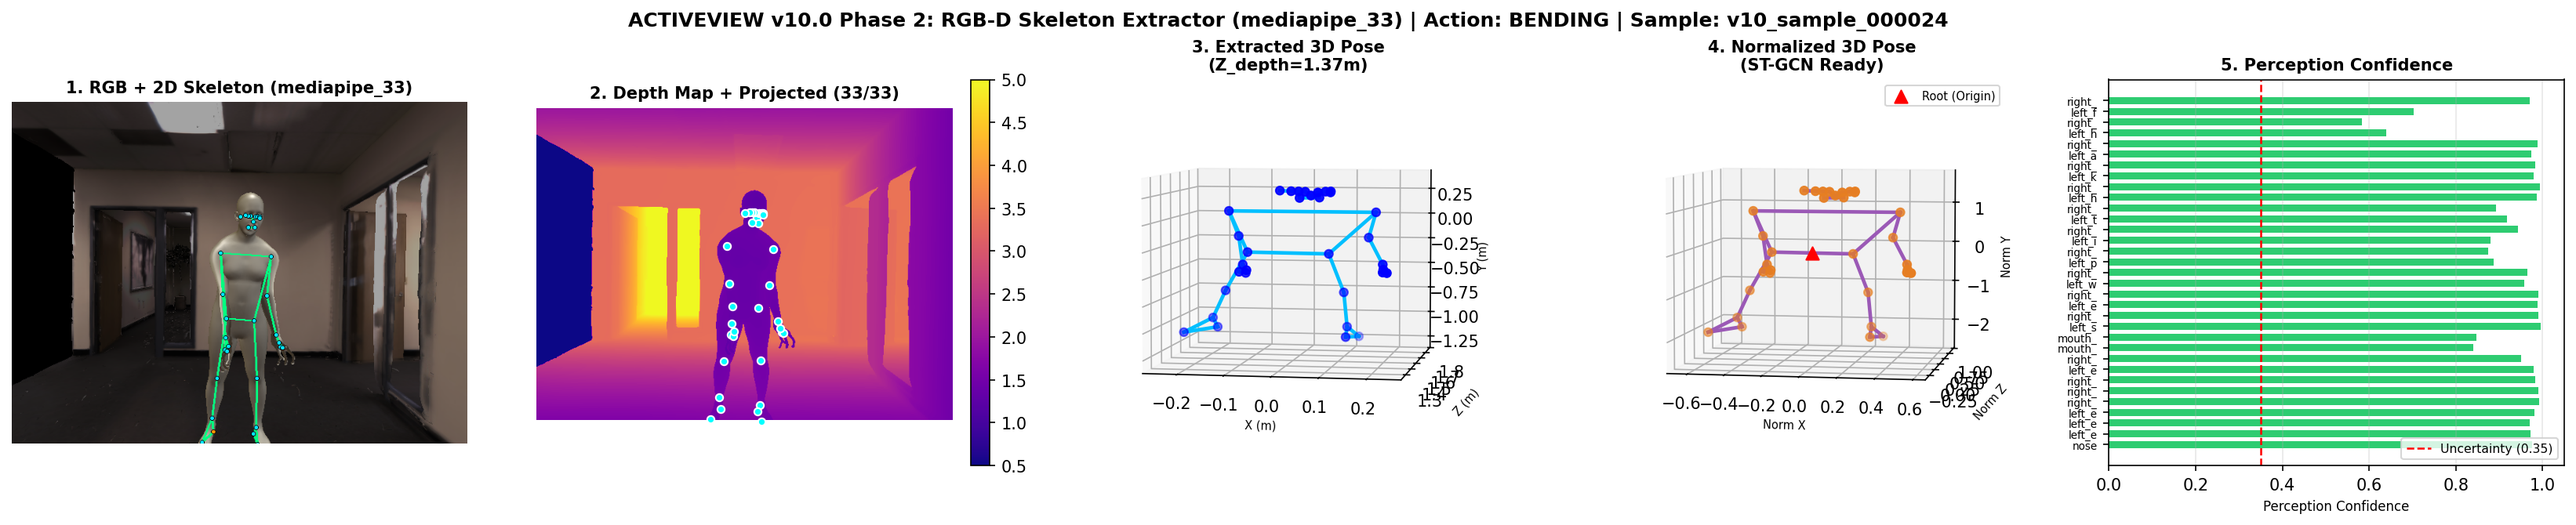
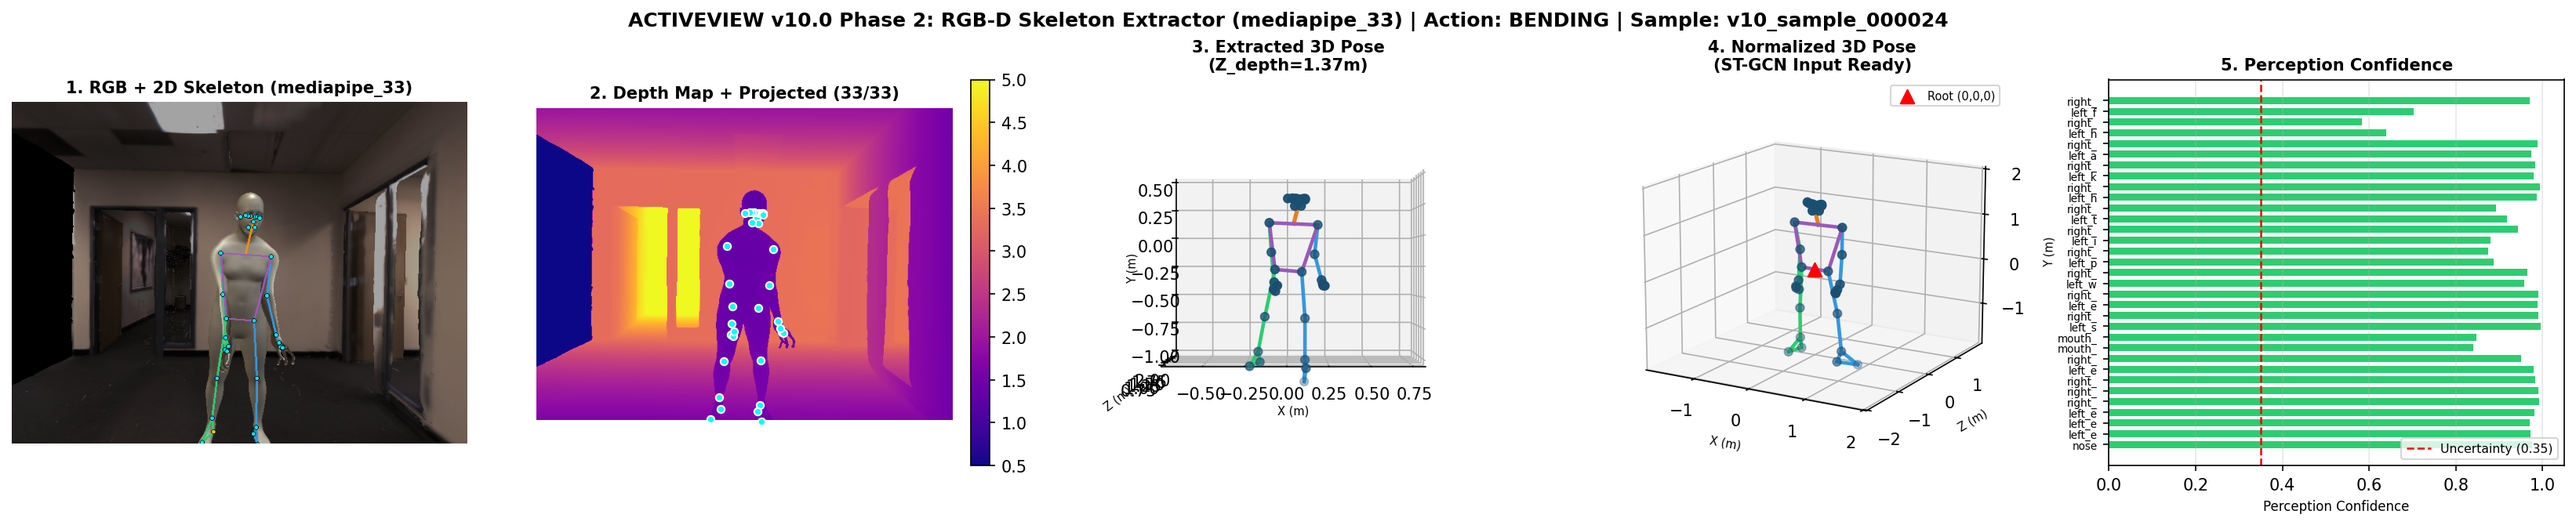
style(visualization): optimize 3D skeleton aspect ratio and limb color-coding

diff --git a/ea_avs_mvp_v10/visualization/skeleton_visualizer.py b/ea_avs_mvp_v10/visualization/skeleton_visualizer.py
@@ -4,9 +4,10 @@ RGB-D 3D 骨架与多模态感知可视化渲染器 —— skeleton_visualizer.p
 
 职责：
     1. 严格从 `configs/skeleton_definition.json` 读取官方骨骼连线与关节定义；
-    2. 禁止硬编码错误骨骼连线；
-    3. 提供标准正投影 (Front View) 与 3D 空间透视投影 (Perspective View)；
-    4. 绘制 RGB + 2D 投影、Camera 坐标系 3D 骨架与 Normalized 3D 骨架。
+    2. 采用真实物理长宽比 (True Metric Aspect Ratio)，消除 3D Matplotlib 坐标轴被压缩挤压变形；
+    3. 肢体区分颜色渲染 (左肢: 蓝色, 右肢: 绿色, 躯干: 紫色, 头部/颈部: 橙色)；
+    4. 自动连接颈部骨骼 (双肩中心至头部鼻尖)，确保头部与躯干自然衔接；
+    5. 提供标准正投影 (Front View) 与 3D 空间透视投影 (Perspective View)。
 """
 
 import logging
@@ -54,29 +55,112 @@ class SkeletonVisualizer:
         confs = skeleton.perception_confidence
         pairs = self.get_skeleton_pairs()
 
-        # 绘制官方骨骼连线
+        # 1. 颈部连接线 (双肩中心至鼻尖)
+        if len(confs) > 12 and confs[0] >= conf_thresh and confs[11] >= conf_thresh and confs[12] >= conf_thresh:
+            neck_2d = ((kpts_2d[11, 0] + kpts_2d[12, 0]) / 2.0, (kpts_2d[11, 1] + kpts_2d[12, 1]) / 2.0)
+            draw.line([neck_2d, (kpts_2d[0, 0], kpts_2d[0, 1])], fill=(255, 140, 0), width=3)
+
+        # 2. 绘制官方骨骼连线 (肢体区分色彩)
         for j1, j2 in pairs:
             if j1 < len(confs) and j2 < len(confs):
                 if confs[j1] >= conf_thresh and confs[j2] >= conf_thresh:
                     p1 = (float(kpts_2d[j1, 0]), float(kpts_2d[j1, 1]))
                     p2 = (float(kpts_2d[j2, 0]), float(kpts_2d[j2, 1]))
-                    avg_c = (confs[j1] + confs[j2]) / 2.0
-                    line_color = (0, 255, 128) if avg_c > 0.6 else (255, 200, 0)
+
+                    part1, part2 = self.skel_def.joints[j1].part, self.skel_def.joints[j2].part
+                    if "left" in part1 or "left" in part2:
+                        line_color = (52, 152, 219)   # 左肢蓝色
+                    elif "right" in part1 or "right" in part2:
+                        line_color = (46, 204, 113)  # 右肢绿色
+                    elif "head" in part1 or "head" in part2:
+                        line_color = (230, 126, 34)  # 头部橙色
+                    else:
+                        line_color = (155, 89, 182)  # 躯干紫色
+
                     draw.line([p1, p2], fill=line_color, width=3)
 
-        # 绘制关键点圆圈
+        # 3. 绘制关键点圆圈
         r = 3
         for i in range(len(confs)):
             u, v = float(kpts_2d[i, 0]), float(kpts_2d[i, 1])
             c = float(confs[i])
             if c >= conf_thresh:
-                node_color = (0, 230, 255) if c > 0.6 else (255, 150, 0)
+                node_color = (0, 230, 255) if c > 0.6 else (255, 200, 0)
             else:
                 node_color = (255, 50, 50)  # 红色表示低置信 / 不确定
 
             draw.ellipse([u - r, v - r, u + r, v + r], fill=node_color, outline=(0, 0, 0))
 
         return np.array(pil_img)
+
+    def draw_3d_limbs(
+        self,
+        ax: Axes3D,
+        joints_3d: np.ndarray,
+        confs: np.ndarray,
+        title: str,
+        is_normalized: bool = False,
+        view_mode: str = "front",
+    ):
+        """以真实物理尺度与肢体着色绘制 3D 骨架。"""
+        valid_idx = np.where(confs >= 0.35)[0]
+        if len(valid_idx) == 0:
+            valid_idx = np.arange(len(confs))
+
+        # 设定等比例长宽比，消除 Matplotlib 3D 盒体挤压变形
+        x_span = np.ptp(joints_3d[valid_idx, 0])
+        y_span = np.ptp(joints_3d[valid_idx, 1])
+        z_span = np.ptp(joints_3d[valid_idx, 2])
+        max_span = max(x_span, y_span, z_span, 0.6 if is_normalized else 0.8)
+
+        mid_x = float(np.mean(joints_3d[valid_idx, 0]))
+        mid_y = float(np.mean(joints_3d[valid_idx, 1]))
+        mid_z = float(np.mean(joints_3d[valid_idx, 2]))
+
+        ax.set_xlim(mid_x - max_span / 2.0, mid_x + max_span / 2.0)
+        ax.set_ylim(mid_z - max_span / 2.0, mid_z + max_span / 2.0)
+        ax.set_zlim(mid_y - max_span / 2.0, mid_y + max_span / 2.0)
+
+        # 颈部骨骼 (双肩中心至鼻尖)
+        if len(joints_3d) > 12 and confs[0] >= 0.35 and confs[11] >= 0.35 and confs[12] >= 0.35:
+            neck = (joints_3d[11] + joints_3d[12]) / 2.0
+            ax.plot([neck[0], joints_3d[0, 0]], [neck[2], joints_3d[0, 2]], [neck[1], joints_3d[0, 1]], color="#E67E22", linewidth=2.5)
+
+        # 各肢体骨骼着色连线
+        for j1, j2 in self.skel_def.edges:
+            if j1 < len(confs) and j2 < len(confs):
+                if confs[j1] >= 0.35 and confs[j2] >= 0.35:
+                    p1, p2 = self.skel_def.joints[j1].part, self.skel_def.joints[j2].part
+                    if "left" in p1 or "left" in p2:
+                        c = "#3498DB"  # 蓝色 (左肢)
+                    elif "right" in p1 or "right" in p2:
+                        c = "#2ECC71"  # 绿色 (右肢)
+                    elif "head" in p1 or "head" in p2:
+                        c = "#E67E22"  # 橙色 (头部)
+                    else:
+                        c = "#9B59B6"  # 紫色 (躯干)
+
+                    ax.plot(
+                        [joints_3d[j1, 0], joints_3d[j2, 0]],
+                        [joints_3d[j1, 2], joints_3d[j2, 2]],
+                        [joints_3d[j1, 1], joints_3d[j2, 1]],
+                        color=c, linewidth=2.2,
+                    )
+
+        ax.scatter(joints_3d[valid_idx, 0], joints_3d[valid_idx, 2], joints_3d[valid_idx, 1], color="#1B4F72", s=25)
+        if is_normalized:
+            ax.scatter(0, 0, 0, color="red", marker="^", s=70, label="Root (0,0,0)")
+            ax.legend(loc="upper right", fontsize=7)
+
+        ax.set_title(title, fontsize=10, fontweight="bold")
+        ax.set_xlabel("X (m)", fontsize=7)
+        ax.set_ylabel("Z (m)", fontsize=7)
+        ax.set_zlabel("Y (m)", fontsize=7)
+
+        if view_mode == "front":
+            ax.view_init(elev=0, azim=-90)
+        else:
+            ax.view_init(elev=15, azim=-60)
 
     def plot_sample_multimodal(
         self,
@@ -91,7 +175,6 @@ class SkeletonVisualizer:
         [1. RGB + 2D 骨架] [2. 深度图 + 投影] [3. 3D 骨架 (Front View)] [4. Normalized 3D 骨架] [5. 逐关节置信度]
         """
         fig = plt.figure(figsize=(22, 4.5))
-        pairs = self.get_skeleton_pairs()
         confs = skeleton.perception_confidence
 
         # Panel 1: RGB + 2D 骨架
@@ -111,47 +194,16 @@ class SkeletonVisualizer:
         ax2.axis("off")
         fig.colorbar(d_plot, ax=ax2, fraction=0.046, pad=0.04)
 
-        # Panel 3: 3D Camera Coordinate Skeleton (Front View, matching camera view)
+        # Panel 3: 3D Camera Coordinate Skeleton (Front View, True Aspect Ratio)
         ax3 = fig.add_subplot(1, 5, 3, projection="3d")
         j3d = skeleton.joints_3d_camera
-        for j1, j2 in pairs:
-            if j1 < len(confs) and j2 < len(confs):
-                if confs[j1] >= 0.35 and confs[j2] >= 0.35:
-                    ax3.plot(
-                        [j3d[j1, 0], j3d[j2, 0]],
-                        [j3d[j1, 2], j3d[j2, 2]],
-                        [j3d[j1, 1], j3d[j2, 1]],
-                        color="deepskyblue", linewidth=2.2,
-                    )
-        ax3.scatter(j3d[valid_idx, 0], j3d[valid_idx, 2], j3d[valid_idx, 1], color="blue", s=25)
         depth_mean = float(np.mean(j3d[valid_idx, 2])) if len(valid_idx) > 0 else 0.0
-        ax3.set_title(f"3. Extracted 3D Pose\n(Z_depth={depth_mean:.2f}m)", fontsize=10, fontweight="bold")
-        ax3.set_xlabel("X (m)", fontsize=7)
-        ax3.set_ylabel("Z (m)", fontsize=7)
-        ax3.set_zlabel("Y (m)", fontsize=7)
-        # 将视点设定为相机视角 (elev=0, azim=-90 代表正对 +Z 轴观看，完全匹配相机图像投影)
-        ax3.view_init(elev=5, azim=-80)
+        self.draw_3d_limbs(ax3, j3d, confs, f"3. Extracted 3D Pose\n(Z_depth={depth_mean:.2f}m)", is_normalized=False, view_mode="front")
 
-        # Panel 4: Normalized 3D Skeleton (Root centered at origin & scale normalized)
+        # Panel 4: Normalized 3D Skeleton (Root centered & scale normalized, Perspective Orbit View)
         ax4 = fig.add_subplot(1, 5, 4, projection="3d")
-        norm_j3d = skeleton.joints_3d_normalized if skeleton.joints_3d_normalized is not None else skeleton.joints_3d_camera
-        for j1, j2 in pairs:
-            if j1 < len(confs) and j2 < len(confs):
-                if confs[j1] >= 0.35 and confs[j2] >= 0.35:
-                    ax4.plot(
-                        [norm_j3d[j1, 0], norm_j3d[j2, 0]],
-                        [norm_j3d[j1, 2], norm_j3d[j2, 2]],
-                        [norm_j3d[j1, 1], norm_j3d[j2, 1]],
-                        color="#9B59B6", linewidth=2.2,
-                    )
-        ax4.scatter(norm_j3d[valid_idx, 0], norm_j3d[valid_idx, 2], norm_j3d[valid_idx, 1], color="#E67E22", s=25)
-        ax4.scatter(0, 0, 0, color="red", marker="^", s=60, label="Root (Origin)")
-        ax4.set_title("4. Normalized 3D Pose\n(ST-GCN Ready)", fontsize=10, fontweight="bold")
-        ax4.set_xlabel("Norm X", fontsize=7)
-        ax4.set_ylabel("Norm Z", fontsize=7)
-        ax4.set_zlabel("Norm Y", fontsize=7)
-        ax4.legend(loc="upper right", fontsize=7)
-        ax4.view_init(elev=5, azim=-80)
+        norm_j3d = skeleton.joints_3d_normalized if skeleton.joints_3d_normalized is not None else j3d
+        self.draw_3d_limbs(ax4, norm_j3d, confs, "4. Normalized 3D Pose\n(ST-GCN Input Ready)", is_normalized=True, view_mode="orbit")
 
         # Panel 5: 逐关节置信度直方图
         ax5 = fig.add_subplot(1, 5, 5)

diff --git a/tools/v10/check_sample.py b/tools/v10/check_sample.py
@@ -77,47 +77,17 @@ def plot_single_sample_inspection(
     ax1.set_title(f"1. RGB + 2D Skeleton ({skeleton.joint_format})\nAction: {sample_meta.get('action_label', '').upper()}", fontsize=11, fontweight="bold")
     ax1.axis("off")
 
-    # 2. Panel 2: Camera Coordinate 3D Skeleton (Front View)
+    # 2. Panel 2: Camera Coordinate 3D Skeleton (Front View, True Aspect Ratio)
     ax2 = fig.add_subplot(1, 4, 2, projection="3d")
     j_cam = skeleton.joints_3d_camera
-    for j1, j2 in pairs:
-        if j1 < len(confs) and j2 < len(confs):
-            if confs[j1] >= 0.35 and confs[j2] >= 0.35:
-                ax2.plot(
-                    [j_cam[j1, 0], j_cam[j2, 0]],
-                    [j_cam[j1, 2], j_cam[j2, 2]],
-                    [j_cam[j1, 1], j_cam[j2, 1]],
-                    color="deepskyblue", linewidth=2.2,
-                )
     valid_idx = np.where(confs >= 0.35)[0]
-    ax2.scatter(j_cam[valid_idx, 0], j_cam[valid_idx, 2], j_cam[valid_idx, 1], color="blue", s=30)
     depth_mean = np.mean(j_cam[valid_idx, 2]) if len(valid_idx) > 0 else 0.0
-    ax2.set_title(f"2. Camera 3D Skeleton (Front View)\n(Depth Z={depth_mean:.2f}m)", fontsize=11, fontweight="bold")
-    ax2.set_xlabel("X (m)", fontsize=8)
-    ax2.set_ylabel("Z (m)", fontsize=8)
-    ax2.set_zlabel("Y (m)", fontsize=8)
-    ax2.view_init(elev=0, azim=-90)
+    visualizer.draw_3d_limbs(ax2, j_cam, confs, f"2. Camera 3D Skeleton (Front View)\n(Depth Z={depth_mean:.2f}m)", is_normalized=False, view_mode="front")
 
-    # 3. Panel 3: Normalized 3D Skeleton (ST-GCN Input)
+    # 3. Panel 3: Normalized 3D Skeleton (ST-GCN Input, 3D Orbit View, True Aspect Ratio)
     ax3 = fig.add_subplot(1, 4, 3, projection="3d")
     j_norm = skeleton.joints_3d_normalized if skeleton.joints_3d_normalized is not None else j_cam
-    for j1, j2 in pairs:
-        if j1 < len(confs) and j2 < len(confs):
-            if confs[j1] >= 0.35 and confs[j2] >= 0.35:
-                ax3.plot(
-                    [j_norm[j1, 0], j_norm[j2, 0]],
-                    [j_norm[j1, 2], j_norm[j2, 2]],
-                    [j_norm[j1, 1], j_norm[j2, 1]],
-                    color="#8E44AD", linewidth=2.2,
-                )
-    ax3.scatter(j_norm[valid_idx, 0], j_norm[valid_idx, 2], j_norm[valid_idx, 1], color="#E67E22", s=30)
-    ax3.scatter(0, 0, 0, color="red", marker="^", s=80, label="Root (0,0,0)")
-    ax3.set_title("3. Normalized 3D Skeleton\n(Root-Centered & Scale-Normalized)", fontsize=11, fontweight="bold")
-    ax3.set_xlabel("Norm X", fontsize=8)
-    ax3.set_ylabel("Norm Z", fontsize=8)
-    ax3.set_zlabel("Norm Y", fontsize=8)
-    ax3.legend(loc="upper right", fontsize=8)
-    ax3.view_init(elev=15, azim=-60)
+    visualizer.draw_3d_limbs(ax3, j_norm, confs, "3. Normalized 3D Skeleton\n(Root-Centered & Scale-Normalized)", is_normalized=True, view_mode="orbit")
 
     # 4. Panel 4: Perception Confidence & Sanity Info Card
     ax4 = fig.add_subplot(1, 4, 4)
